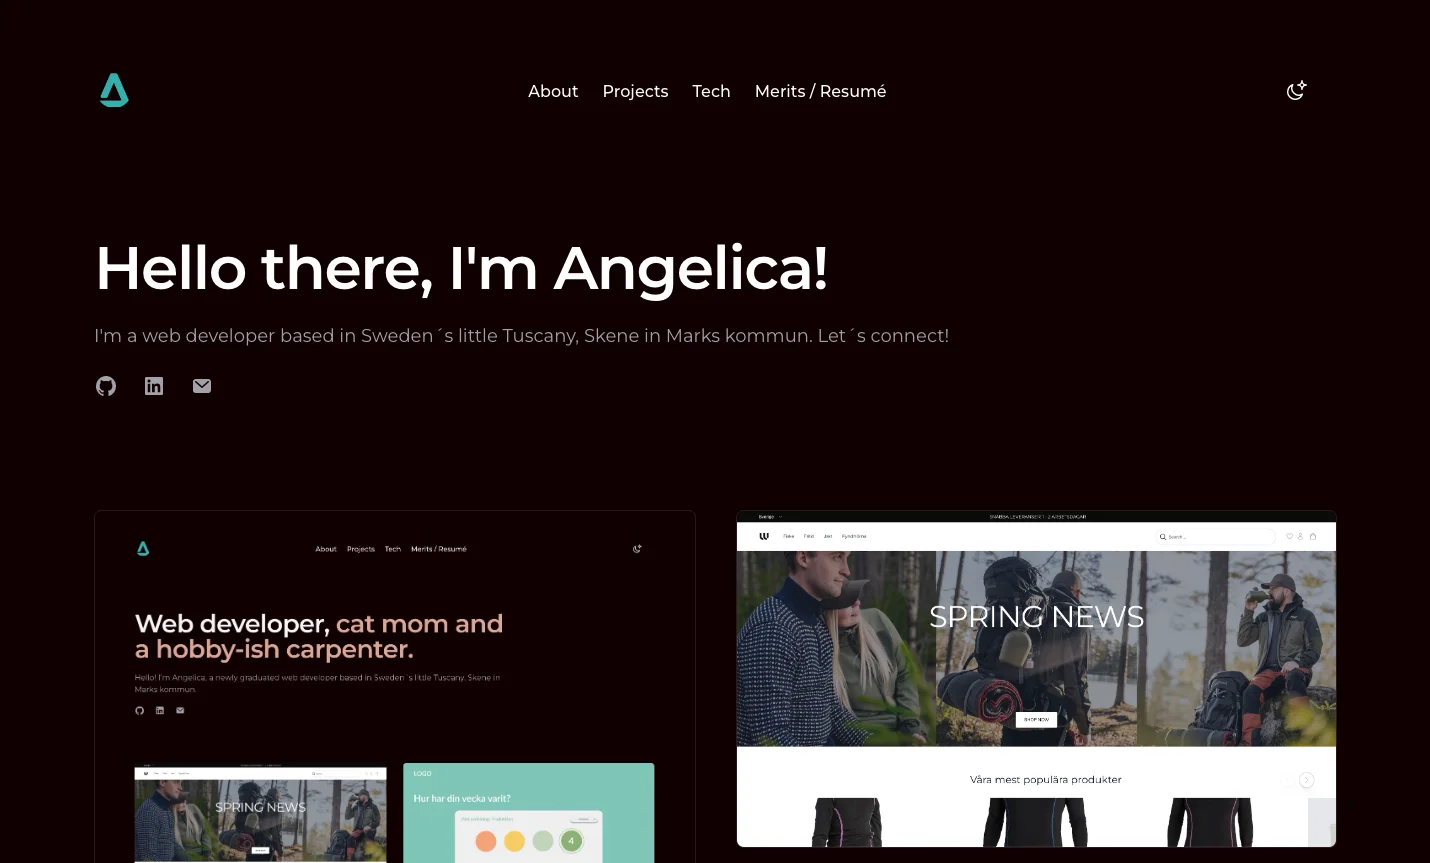
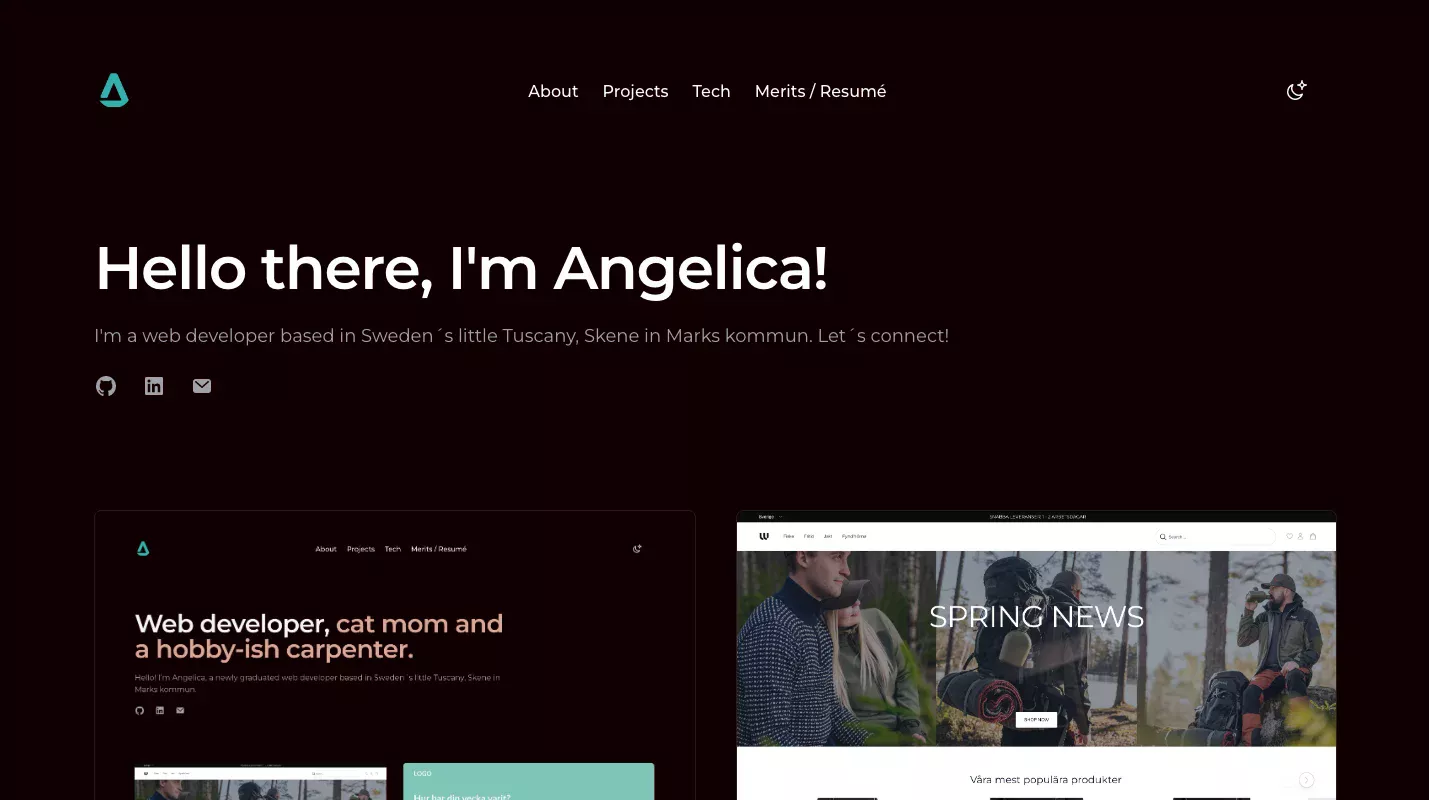
small fixes

diff --git a/src/components/Projects.tsx b/src/components/Projects.tsx
@@ -112,11 +112,11 @@ const Projects = ({ projects, currentProjects }: ProjectsProps) => {
                 {pathname == '/'
                   ? projects.slice(0, 4).map((project, i) => (
                       <Link key={i} href={'/projects/' + project.slug}>
-                        <div className="relative rounded-lg ">
+                        <div className="relative h-full w-full rounded-lg ">
                           <motion.img
                             src={'/' + project.image.src}
                             alt="bild"
-                            className=" rounded-lg  object-cover  dark:border dark:border-white/10"
+                            className=" h-full w-full rounded-lg  object-cover  dark:border dark:border-white/10"
                             variants={images}
                           />
 
